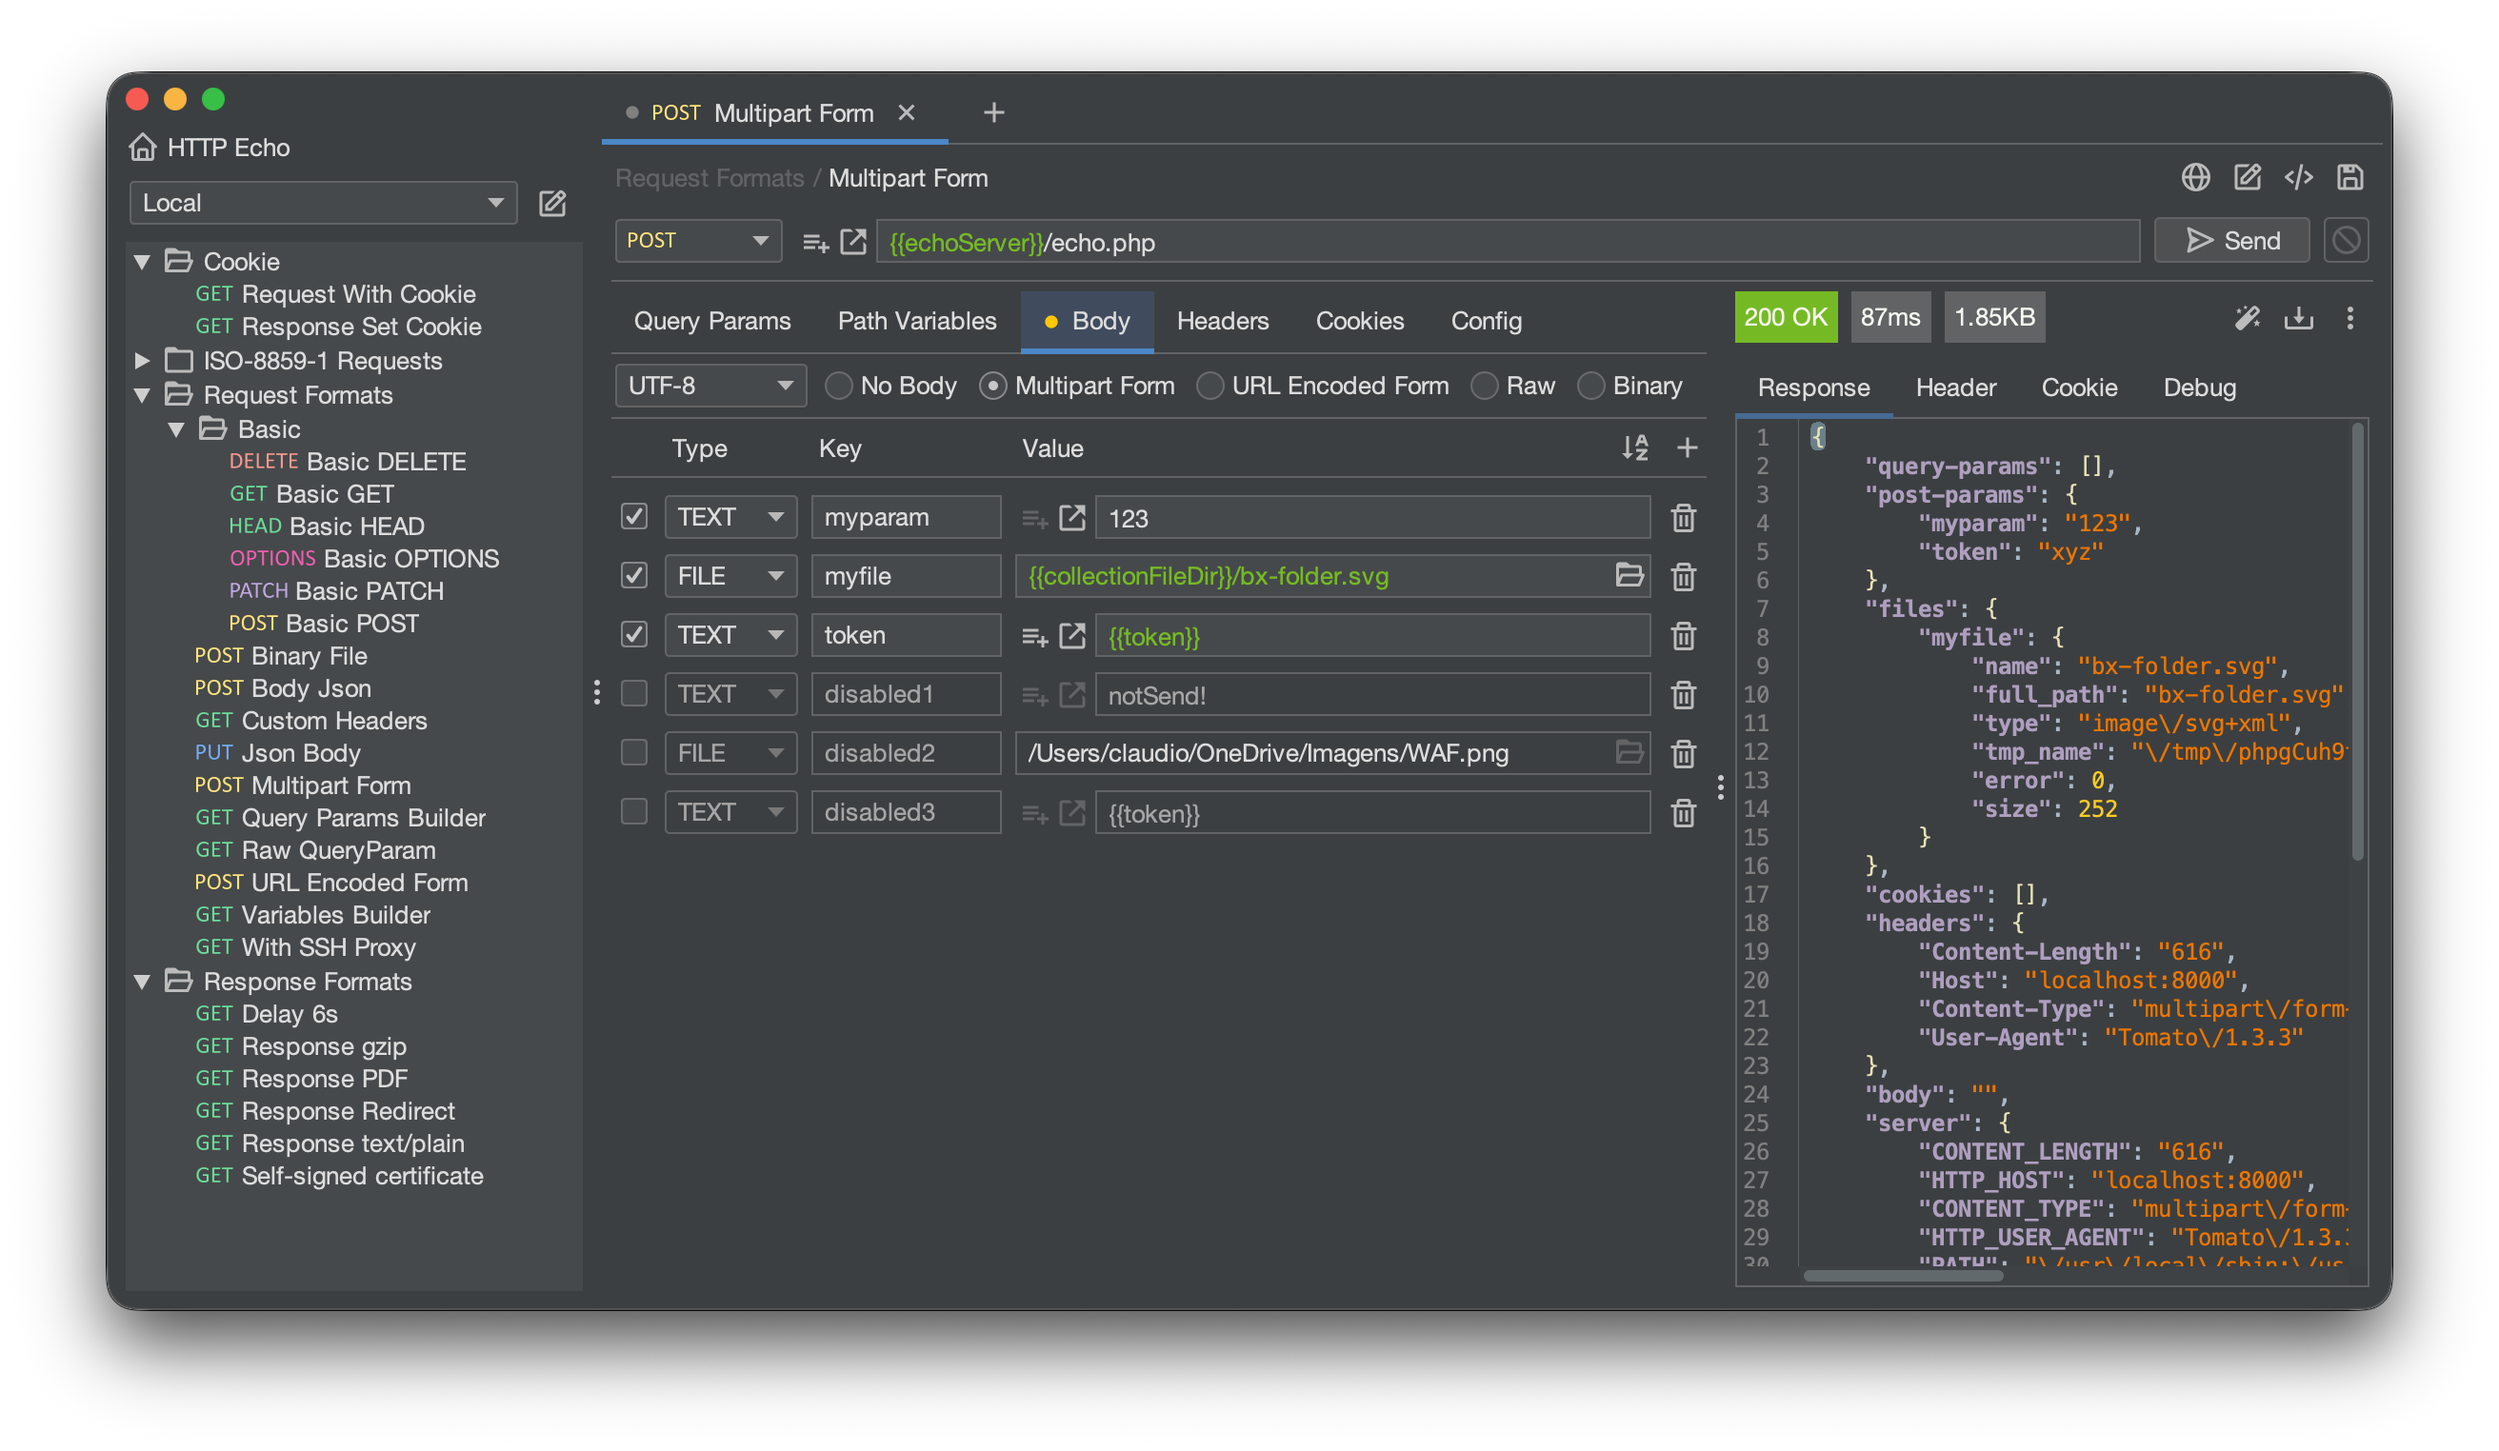
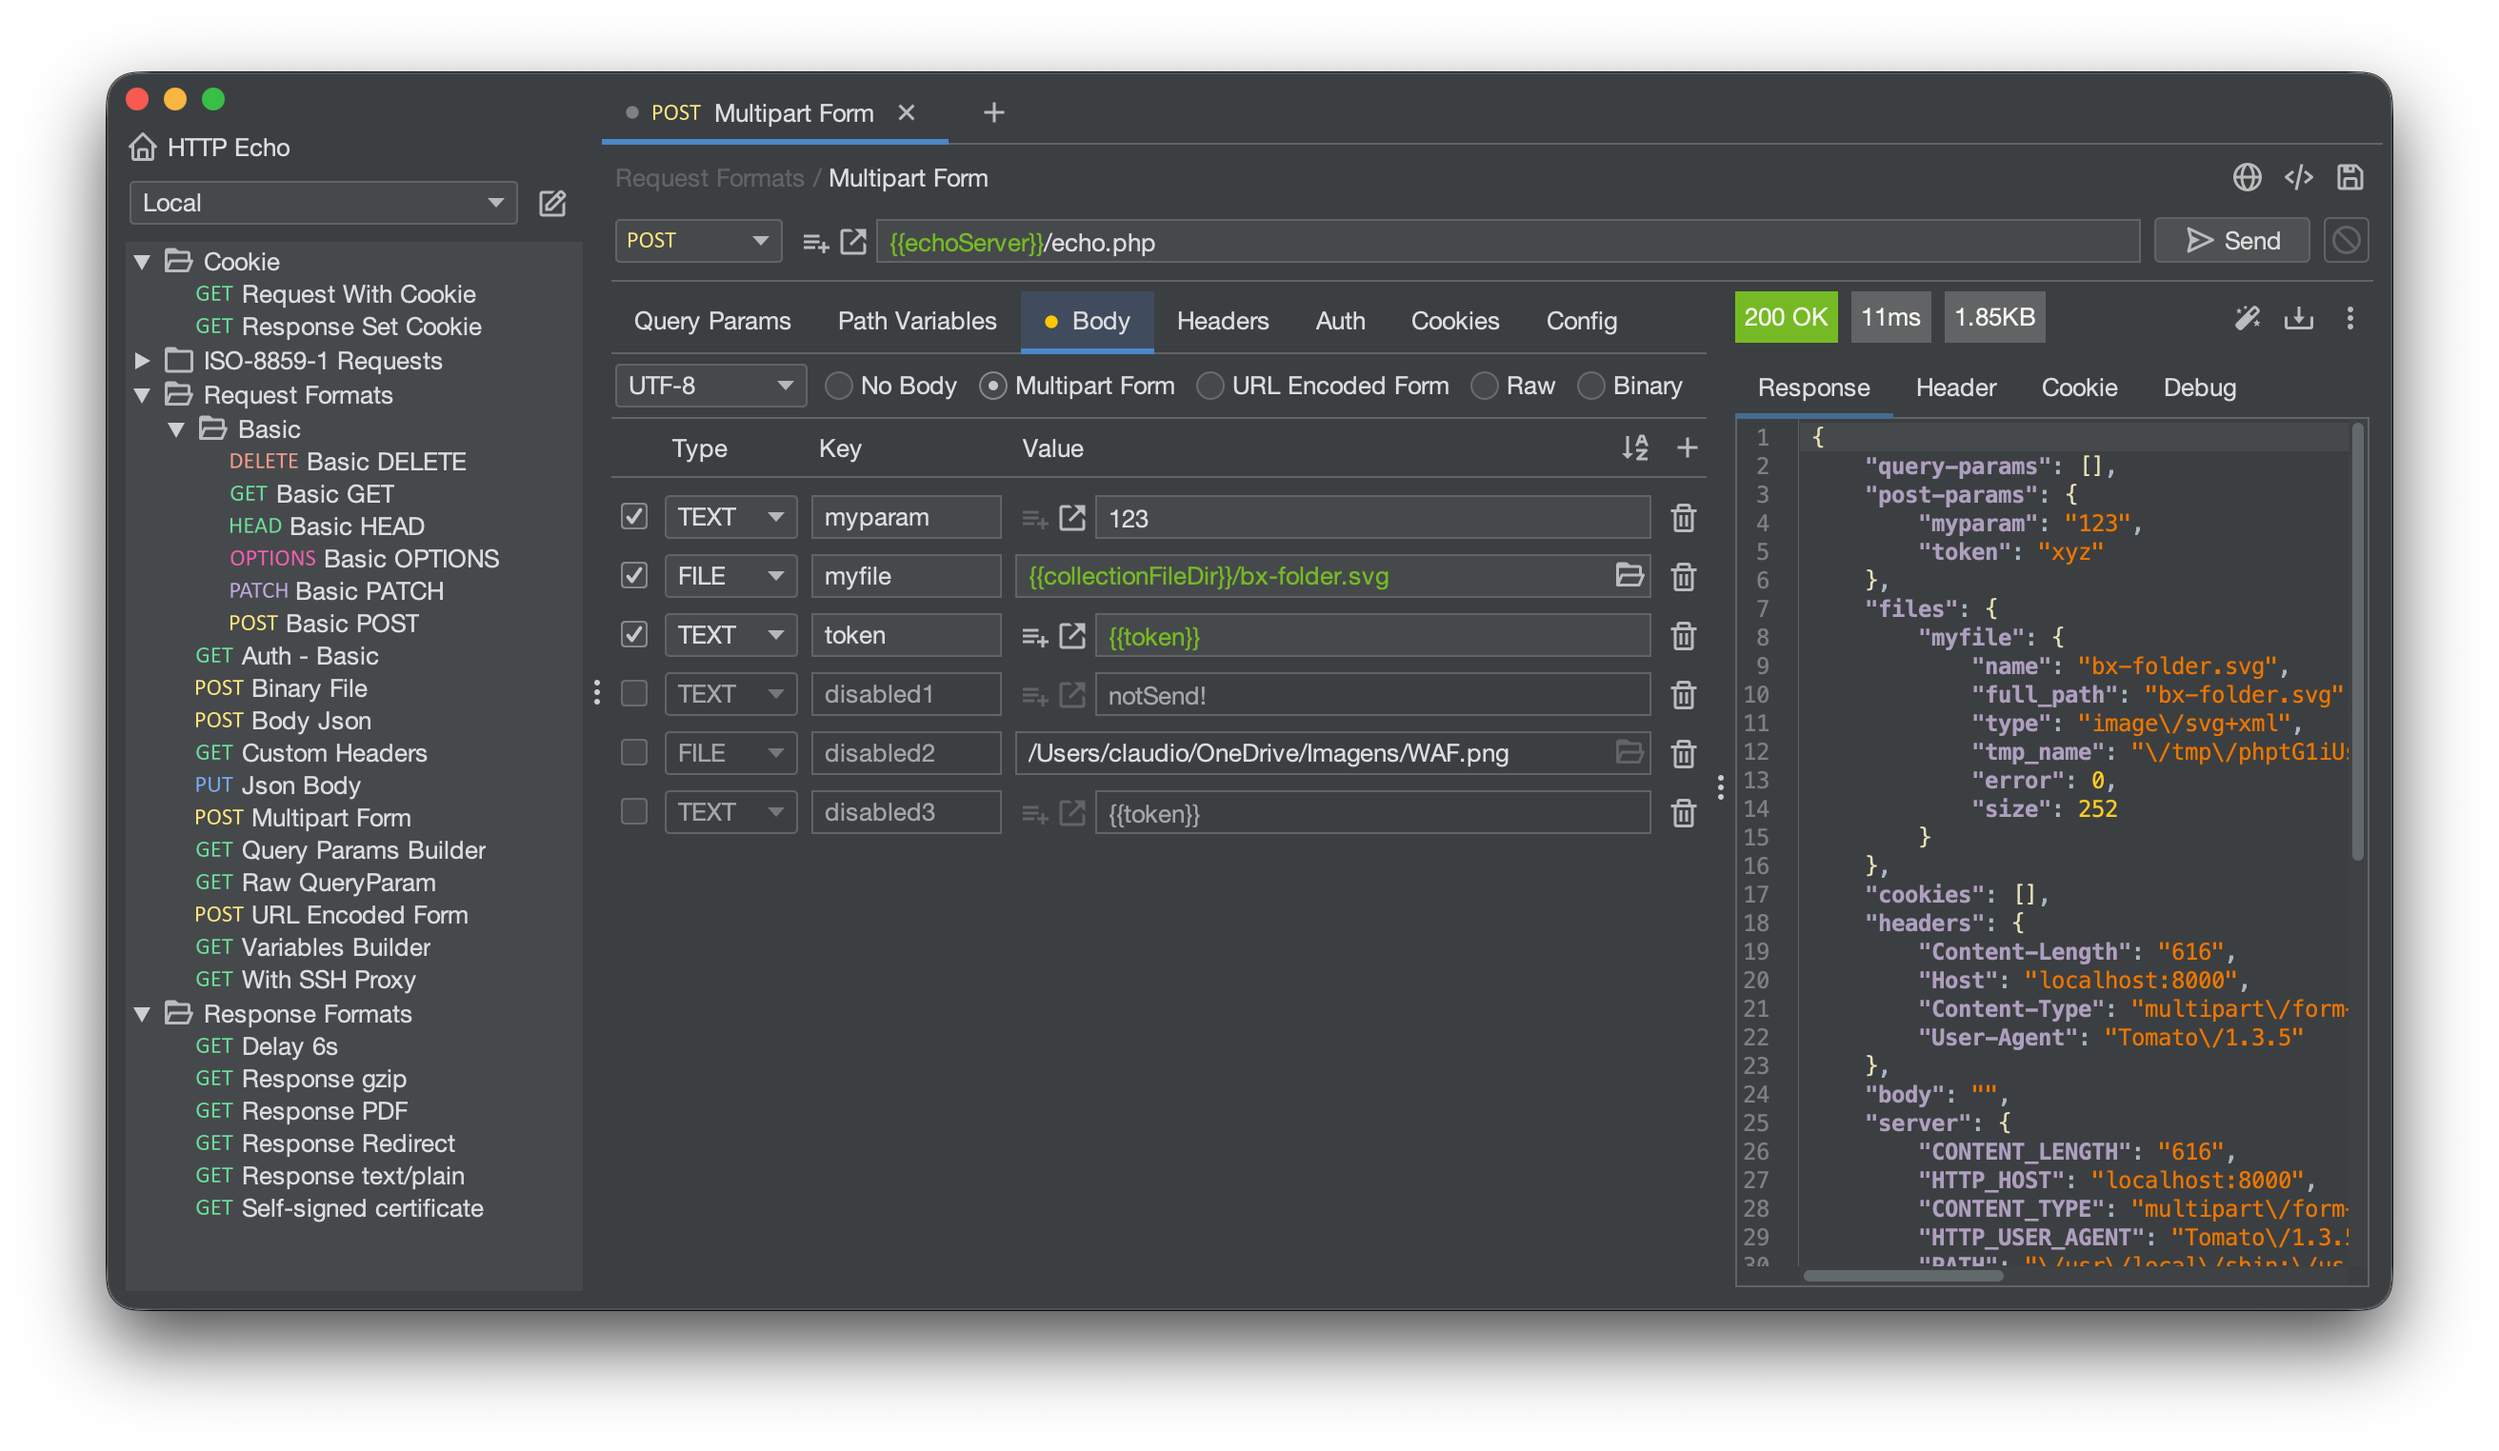
Feat: add TODO check to CI and test saveTreeExpandedState

diff --git a/src/test/java/io/github/clagomess/tomato/controller/main/collection/CollectionTreeControllerTest.java b/src/test/java/io/github/clagomess/tomato/controller/main/collection/CollectionTreeControllerTest.java
@@ -2,6 +2,7 @@ package io.github.clagomess.tomato.controller.main.collection;
 
 import io.github.clagomess.tomato.dto.data.TomatoID;
 import io.github.clagomess.tomato.dto.data.WorkspaceDto;
+import io.github.clagomess.tomato.dto.data.WorkspaceSessionDto;
 import io.github.clagomess.tomato.dto.tree.CollectionTreeDto;
 import io.github.clagomess.tomato.io.repository.TreeRepository;
 import io.github.clagomess.tomato.io.repository.WorkspaceSessionRepository;
@@ -12,6 +13,7 @@ import org.junit.jupiter.api.Test;
 import org.mockito.Mockito;
 
 import java.io.IOException;
+import java.util.List;
 import java.util.concurrent.atomic.AtomicInteger;
 
 import static io.github.clagomess.tomato.publisher.base.EventTypeEnum.UPDATED;
@@ -88,5 +90,20 @@ class CollectionTreeControllerTest {
         ));
 
         assertEquals(1, result.get());
+    }
+
+    @Test
+    void saveTreeExpandedState_saveExpandedIds() throws IOException {
+        var session = new WorkspaceSessionDto();
+        Mockito.doReturn(session)
+                .when(workspaceSessionRepository)
+                .load();
+
+        var ids = List.of(new TomatoID());
+
+        controller.saveTreeExpandedState(ids);
+
+        assertEquals(ids, session.getExpandedCollectionsIds());
+        Mockito.verify(workspaceSessionRepository).save(session);
     }
 }

diff --git a/src/main/java/io/github/clagomess/tomato/controller/main/collection/CollectionTreeController.java b/src/main/java/io/github/clagomess/tomato/controller/main/collection/CollectionTreeController.java
@@ -39,7 +39,6 @@ public class CollectionTreeController {
                 .addListener(event -> loadCurrentWorkspace.run());
     }
 
-    // @TODO: impl. junit
     public void addSaveTreeExpandedStateListener(
             Supplier<List<TomatoID>> expandedCollectionsIds
     ){
@@ -52,7 +51,6 @@ public class CollectionTreeController {
                 .addListener(e -> saveTreeExpandedState(expandedCollectionsIds.get()));
     }
 
-    // @TODO: impl. junit
     protected void saveTreeExpandedState(List<TomatoID> expandedCollectionsIds){
         try {
             var session = workspaceSessionRepository.load();
